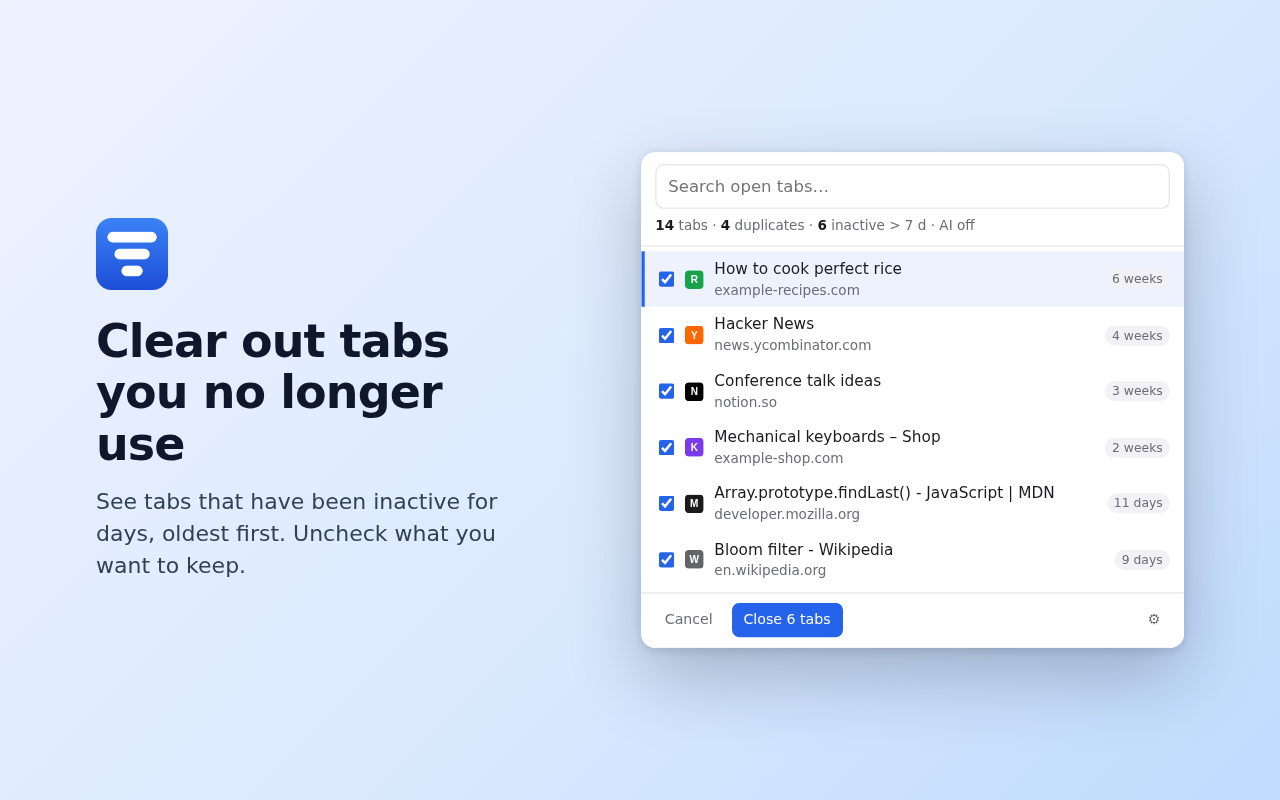
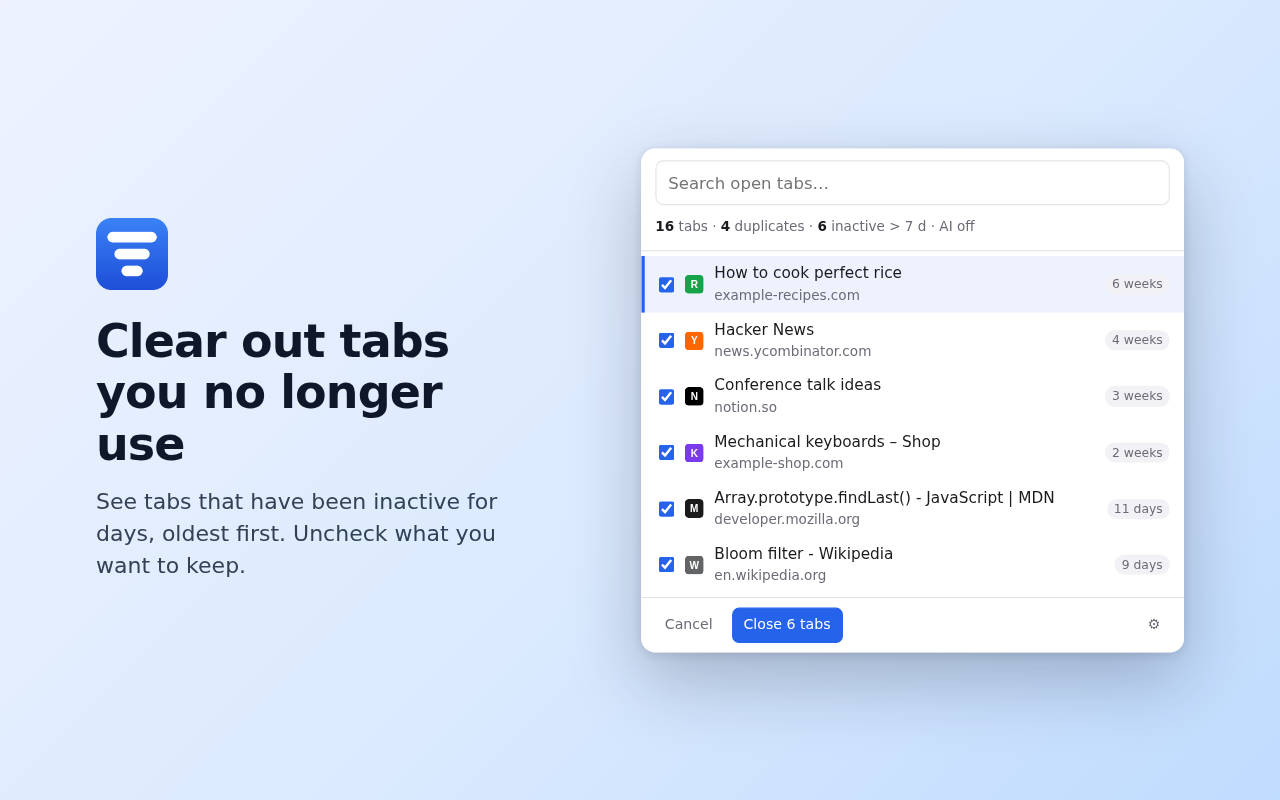
feat: close everything a search finds
When a palette search has results, a "Close N matches" button (or Ctrl+E)
previews closing all of them. The preview is the same checkbox list the
inactive-tab view uses: every match is checked, uncheck what to keep, then
confirm. Pinned tabs are left out and counted in a notice. The close goes
through closeWithUndo, so it can be undone for ten minutes.

- closableMatches() in tabs.js, with tests.
- Strings in both languages; the key-existence test covers them.
- A fourth store screenshot per language, two extra demo tabs, texts in
  both READMEs and the store listing. Version 0.5.0.

diff --git a/src/palette/palette.js b/src/palette/palette.js
@@ -4,7 +4,7 @@
 import { getSettings } from '../lib/settings.js';
 import {
   queryTabs, tabUrl, planDedupe, applyDedupe, undoClose,
-  planStale, closeWithUndo, formatAge, applyGrouping, focusTab, colorFor,
+  planStale, closableMatches, closeWithUndo, formatAge, applyGrouping, focusTab, colorFor,
 } from '../lib/tabs.js';
 import { normalizeUrl, displayHost } from '../lib/urlkey.js';
 import { planGrouping } from '../lib/grouping.js';
@@ -20,6 +20,7 @@ const els = {
   dedupe: document.getElementById('btn-dedupe'),
   group: document.getElementById('btn-group'),
   stale: document.getElementById('btn-stale'),
+  matches: document.getElementById('btn-matches'),
   undo: document.getElementById('btn-undo'),
   options: document.getElementById('btn-options'),
 };
@@ -34,6 +35,8 @@ let groupPlan = null;
 let stalePlan = null;
 /** Tab ids the user unchecked in the inactive-tab preview. */
 let staleKeep = new Set();
+/** Which cleanup the shared checkbox list shows: 'stale' or 'matches'. */
+let staleKind = 'stale';
 let visible = [];
 let cursor = 0;
 
@@ -167,7 +170,18 @@ function renderSearch() {
 
   els.empty.hidden = visible.length > 0;
   els.empty.textContent = visible.length ? '' : t('no_match');
+  updateMatchesButton();
   scrollToCursor();
+}
+
+/** "Close N matches" shows only while a query has something closable to offer. */
+function updateMatchesButton() {
+  const q = els.query.value.trim();
+  const n = q ? closableMatches(visible.map((item) => item.tab)).close.length : 0;
+  els.matches.hidden = n === 0;
+  if (!n) return;
+  els.matches.textContent = tn('btn_close_matches', n);
+  els.matches.title = 'Ctrl+E';
 }
 
 function renderRow(item, i) {
@@ -330,7 +344,7 @@ function renderStale() {
   visible = stalePlan ?? [];
   if (!visible.length) {
     els.empty.hidden = false;
-    els.empty.textContent = t('stale_none', settings.stale.days);
+    els.empty.textContent = staleKind === 'matches' ? t('no_match') : t('stale_none', settings.stale.days);
     return;
   }
   cursor = Math.min(cursor, visible.length - 1);
@@ -372,7 +386,7 @@ function renderStale() {
     text.append(titleEl, sub);
     li.appendChild(text);
 
-    li.appendChild(chip(formatAge(now - tab.lastAccessed)));
+    if (staleKind === 'stale') li.appendChild(chip(formatAge(now - tab.lastAccessed)));
 
     li.addEventListener('click', () => {
       cursor = i;
@@ -449,8 +463,12 @@ function renderFooter() {
 
 function render() {
   renderCounts();
-  if (mode === 'search') renderSearch();
-  else renderPlanView();
+  if (mode === 'search') {
+    renderSearch();
+  } else {
+    els.matches.hidden = true;
+    renderPlanView();
+  }
   renderFooter();
 }
 
@@ -501,6 +519,7 @@ async function enterStale() {
   setNotice('');
   const fresh = await queryTabs({ allWindows: settings.stale.allWindows });
   stalePlan = planStale(fresh, Date.now(), settings.stale);
+  staleKind = 'stale';
   staleKeep = new Set();
   cursor = 0;
   mode = 'stale';
@@ -508,11 +527,26 @@ async function enterStale() {
   render();
 }
 
+/** Previews closing every (non-pinned) tab the current search shows. */
+function enterMatches() {
+  const { close, skippedPinned } = closableMatches(visible.map((item) => item.tab));
+  if (!close.length) return;
+  stalePlan = close;
+  staleKind = 'matches';
+  staleKeep = new Set();
+  cursor = 0;
+  mode = 'stale';
+  els.query.disabled = true;
+  render();
+  setNotice(skippedPinned ? tn('matches_pinned', skippedPinned) : '');
+}
+
 function backToSearch() {
   mode = 'search';
   dedupePlan = null;
   groupPlan = null;
   stalePlan = null;
+  staleKind = 'stale';
   cursor = 0;
   els.query.disabled = false;
   els.query.focus();
@@ -528,11 +562,12 @@ async function confirmDedupe() {
 }
 
 async function confirmStale() {
+  const kind = staleKind;
   const toClose = (stalePlan ?? []).filter((tab) => !staleKeep.has(tab.id));
   const { closed } = await closeWithUndo(toClose);
   await load();
   backToSearch();
-  setNotice(closed ? tn('closed_stale', closed) : t('closed_none'));
+  setNotice(closed ? tn(kind === 'matches' ? 'closed_n' : 'closed_stale', closed) : t('closed_none'));
 }
 
 async function confirmGroup() {
@@ -565,6 +600,7 @@ els.undo.addEventListener('click', async () => {
   setNotice(tn('reopened', reopened));
 });
 
+els.matches.addEventListener('click', enterMatches);
 els.options.addEventListener('click', () => chrome.runtime.openOptionsPage());
 
 els.query.addEventListener('input', () => {
@@ -592,6 +628,12 @@ document.addEventListener('keydown', (e) => {
   if (e.ctrlKey && (e.key === 'i' || e.key === 'I')) {
     e.preventDefault();
     if (mode === 'search') void enterStale();
+    return;
+  }
+
+  if (e.ctrlKey && (e.key === 'e' || e.key === 'E')) {
+    e.preventDefault();
+    if (mode === 'search' && !els.matches.hidden) enterMatches();
     return;
   }
 

diff --git a/scripts/screenshots/harness.html b/scripts/screenshots/harness.html
@@ -3,7 +3,7 @@
   Store screenshot frame: 1280 x 800, a caption on the left and the real palette
   (src/palette/palette.html) on the right, running against stub.js.
 
-  Query: ?lang=en|sv&mode=search|dedupe|stale
+  Query: ?lang=en|sv&mode=search|dedupe|stale|matches
   Served from the repository root (scripts/screenshots/shoot.py does that).
 -->
 <html>
@@ -46,11 +46,13 @@
           search: ['Find any tab in a keystroke', 'Fuzzy search across every open tab — or type t and a space in the address bar.'],
           dedupe: ['Close duplicates, keep the right one', 'Tracking parameters and fragments are ignored. Pinned tabs are never closed, and everything can be undone.'],
           stale: ['Clear out tabs you no longer use', 'See tabs that have been inactive for days, oldest first. Uncheck what you want to keep.'],
+          matches: ['Close everything a search finds', 'Search, then close all matching tabs in one go. Review the list and uncheck what you want to keep.'],
         },
         sv: {
           search: ['Hitta vilken flik som helst', 'Fuzzy sökning bland alla öppna flikar — eller skriv t och mellanslag i adressfältet.'],
           dedupe: ['Stäng dubbletter, behåll rätt flik', 'Spårningsparametrar och fragment ignoreras. Fästa flikar stängs aldrig, och allt går att ångra.'],
           stale: ['Rensa flikar du inte använder', 'Se flikar som varit inaktiva i flera dagar, äldst först. Bocka ur det du vill behålla.'],
+          matches: ['Stäng allt en sökning hittar', 'Sök och stäng alla träffar i ett svep. Granska listan och bocka ur det du vill behålla.'],
         },
       };
       const [title, text] = CAPTIONS[DEMO.lang][DEMO.mode];
@@ -77,6 +79,11 @@
             key('d');
           } else if (DEMO.mode === 'stale') {
             key('i');
+          } else if (DEMO.mode === 'matches') {
+            const input = doc.getElementById('query');
+            input.value = 'notes';
+            input.dispatchEvent(new Event('input', { bubbles: true }));
+            key('e');
           }
           // A real popup is as tall as its content.
           setTimeout(() => { frame.style.height = `${Math.ceil(doc.body.getBoundingClientRect().height)}px`; }, 300);

diff --git a/src/palette/palette.css b/src/palette/palette.css
@@ -51,7 +51,14 @@ header { padding: 10px 12px 8px; border-bottom: 1px solid var(--line); }
 }
 #query:focus { outline: 2px solid var(--accent); outline-offset: -1px; border-color: transparent; }
 
-.counts { margin-top: 6px; color: var(--muted); font-size: 11.5px; }
+.counts-row {
+  display: flex; align-items: center; justify-content: space-between; gap: 8px;
+  margin-top: 6px; min-height: 24px;
+}
+.counts {
+  min-width: 0; color: var(--muted); font-size: 11.5px;
+  white-space: nowrap; overflow: hidden; text-overflow: ellipsis;
+}
 .counts b { color: var(--fg); font-weight: 600; }
 
 main { flex: 1; overflow-y: auto; min-height: 120px; }
@@ -138,6 +145,8 @@ footer {
   background: var(--bg); color: var(--fg); cursor: pointer;
 }
 .action:hover { border-color: var(--accent); color: var(--accent); }
+.action.compact { flex: none; padding: 2px 8px; font-size: 11.5px; white-space: nowrap; }
+.action.compact:hover { border-color: var(--danger); color: var(--danger); }
 .action.primary { background: var(--accent); border-color: var(--accent); color: #fff; }
 .action.primary:hover { opacity: .9; color: #fff; }
 .action.ghost { border-color: transparent; color: var(--muted); }

diff --git a/scripts/screenshots/stub.js b/scripts/screenshots/stub.js
@@ -23,6 +23,8 @@
     ['Fix flaky retry in upload queue · Pull Request #482', 'https://github.com/acme/uploader/pull/482?utm_source=slack', icon('G', '#24292f'), 5 * H],
     ['Sprint board – Uploader', 'https://acme.atlassian.net/jira/software/projects/UP/boards/3', icon('J', '#0c66e4'), 6 * H],
     ['Design review notes', 'https://docs.google.com/document/d/1x0demo', icon('D', '#1a73e8'), 9 * H],
+    ['Meeting notes – Q4 planning', 'https://www.notion.so/acme/Q4-planning', icon('N', '#000000'), 5 * H],
+    ['Reading notes – Data-Intensive Apps', 'https://www.example-books.com/notes/ddia', icon('B', '#b45309'), 3 * D],
     ['Release notes 4.2 – draft', 'https://www.notion.so/acme/Release-notes-4-2', icon('N', '#000000'), 1.2 * D],
     ['Rust ownership explained in 10 minutes', 'https://www.youtube.com/watch?v=demo', icon('Y', '#ff0000'), 2 * D],
     ['Bloom filter - Wikipedia', 'https://en.wikipedia.org/wiki/Bloom_filter', icon('W', '#636466'), 9 * D],

diff --git a/src/lib/tabs.js b/src/lib/tabs.js
@@ -120,6 +120,18 @@ export async function undoClose() {
   return { reopened: lastClose.tabs.length };
 }
 
+// ------------------------------------------------------------ search matches
+
+/**
+ * What "close all matches" may close from a list of search results: everything
+ * but pinned tabs, which are left alone and counted. Order is kept, so the best
+ * match stays first in the preview.
+ */
+export function closableMatches(tabs) {
+  const close = tabs.filter((tab) => !tab.pinned);
+  return { close, skippedPinned: tabs.length - close.length };
+}
+
 // ------------------------------------------------------------ inactive tabs
 
 const DAY = 24 * 60 * 60 * 1000;

diff --git a/src/palette/palette.html b/src/palette/palette.html
@@ -15,7 +15,10 @@
         data-i18n-placeholder="search_placeholder"
         data-i18n-aria-label="search_placeholder"
       />
-      <div id="counts" class="counts"></div>
+      <div class="counts-row">
+        <div id="counts" class="counts"></div>
+        <button id="btn-matches" type="button" class="action compact" hidden></button>
+      </div>
     </header>
 
     <main>

diff --git a/scripts/screenshots/shoot.py b/scripts/screenshots/shoot.py
@@ -21,7 +21,7 @@ from pathlib import Path
 
 ROOT = Path(__file__).resolve().parents[2]
 OUT = ROOT / "store" / "screenshots"
-VIEWS = ["search", "dedupe", "stale"]
+VIEWS = ["search", "dedupe", "stale", "matches"]
 LANGS = ["en", "sv"]
 
 

diff --git a/docs/store-listing.md b/docs/store-listing.md
@@ -49,8 +49,8 @@ python3 scripts/screenshots/shoot.py    # store/screenshots/<lang>-<n>-<view>.pn
 | Logo | — | `store/logo-300.png` (300 × 300) |
 | Screenshots | 1–5 at 1280 × 800, required | optional, 1280 × 800 |
 
-Screenshots: `en-1-search`, `en-2-dedupe`, `en-3-stale` for the English
-listing, `sv-…` for the Swedish one. They are rendered from the real palette
+Screenshots: `en-1-search`, `en-2-dedupe`, `en-3-stale`, `en-4-matches` for
+the English listing, `sv-…` for the Swedish one. They are rendered from the real palette
 against made-up tabs (`scripts/screenshots/stub.js`), so no real browsing ends
 up in a listing. Promo tiles are optional and skipped.
 
@@ -70,7 +70,8 @@ up in a listing. Promo tiles are optional and skipped.
 > Tabsift helps you find, clean up and organize open tabs.
 >
 > • Tab palette: press Ctrl+Shift+K and type a few letters to jump to any open
-> tab, in any window. Or type t and a space in the address bar.
+> tab, in any window. Or type t and a space in the address bar. Close
+> everything a search finds with one click, after a preview.
 > • Duplicates: see which tabs are the same page, even when tracking parameters
 > or fragments differ, and close the extra copies. Pinned tabs are never
 > closed.
@@ -100,7 +101,8 @@ Add language*, Edge *Store listings → Add a language*):
 >
 > • Flikpalett: tryck Ctrl+Shift+K och skriv några bokstäver för att hoppa
 > till vilken öppen flik som helst, i vilket fönster som helst. Eller skriv t
-> och mellanslag i adressfältet.
+> och mellanslag i adressfältet. Stäng allt en sökning hittar med ett klick,
+> efter en förhandsvisning.
 > • Dubbletter: se vilka flikar som är samma sida, även när
 > spårningsparametrar eller fragment skiljer sig, och stäng de extra
 > kopiorna. Fästa flikar stängs aldrig.
@@ -214,7 +216,7 @@ Partner Center → Edge → *Create new extension*:
    data boxes, certifications, privacy policy URL — all under *The forms*.
 5. **Store listings:** name and summary come from the manifest. Description
    from *Listing*. Logo `store/logo-300.png`. Screenshots optional; use the
-   three for the language. Add Swedish as a second language.
+   four for the language. Add Swedish as a second language.
 6. **Publish → Notes for certification:** the test instructions. Then
    **Publish (owner)**.
 
@@ -225,7 +227,7 @@ Developer Dashboard → *Add new item* → the same zip:
 1. **Package:** the upload.
 2. **Store listing:** description from *Listing*, category, language English,
    then *Add language* → Swedish. Store icon `store/icon-128.png`. Screenshots:
-   the three for each language. Homepage and support URLs.
+   the four for each language. Homepage and support URLs.
 3. **Privacy:** the same answers as Edge, with one justification per optional
    host permission. Data: *Web history*. Certifications. Policy URL.
 4. **Distribution:** Visibility **Public**. Regions: all.

diff --git a/README.sv.md b/README.sv.md
@@ -33,6 +33,11 @@ Ett tillägg som påstår annat gör det via en overlay, inte via adressfältet.
 `Ctrl+Shift+K` öppnar samma sökning som en palett med förhandsvisning, om du
 hellre vill se hela listan.
 
+**Stäng det en sökning hittar.** När en sökning i paletten har träffar visas en
+knapp **Stäng N träffar** (eller `Ctrl+E`) som förhandsvisar att stänga alla:
+varje träff är förbockad, bocka ur det du vill behålla och bekräfta. Fästa
+flikar utelämnas och räknas. Stängningen går att ångra i tio minuter.
+
 ---
 
 ## Installera
@@ -232,6 +237,7 @@ Store och Edge Add-ons. Texter, bilder och alla formulärsvar står i
 | `Ctrl+Shift+U` | Städa dubbletter direkt (utan förhandsvisning) |
 | — | Gruppera direkt (ingen standardtangent) |
 | `Ctrl+D` / `Ctrl+G` / `Ctrl+I` | I paletten: förhandsvisa dubbletter / gruppering / inaktiva flikar |
+| `Ctrl+E` | I paletten, när en sökning har träffar: förhandsvisa att stänga alla |
 | `Mellanslag` | I listan med inaktiva flikar: behåll eller stäng fliken |
 | `↑` `↓` `Enter` | Navigera och hoppa till flik |
 | `Esc` | Tillbaka, sen stäng |

diff --git a/README.md b/README.md
@@ -34,6 +34,11 @@ address bar.
 `Ctrl+Shift+K` opens the same search as a palette with a preview, if you'd
 rather see the whole list.
 
+**Close what a search finds.** When a search in the palette has results, a
+**Close N matches** button (or `Ctrl+E`) previews closing all of them: every
+match is checked, uncheck what you want to keep, then confirm. Pinned tabs are
+left out and counted. The close can be undone for ten minutes.
+
 ---
 
 ## Install
@@ -237,6 +242,7 @@ Store and Edge Add-ons. Texts, images and every form answer are in
 | `Ctrl+Shift+U` | Clean up duplicates directly (no preview) |
 | — | Group directly (no default key) |
 | `Ctrl+D` / `Ctrl+G` / `Ctrl+I` | In the palette: preview duplicates / grouping / inactive tabs |
+| `Ctrl+E` | In the palette, with a search showing results: preview closing all of them |
 | `Space` | In the inactive-tab list: keep or close the tab |
 | `↑` `↓` `Enter` | Navigate and jump to tab |
 | `Esc` | Back, then close |
